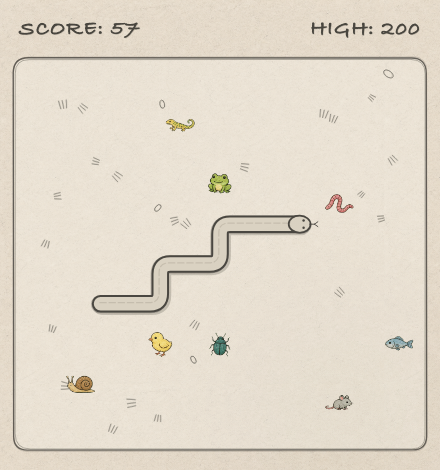
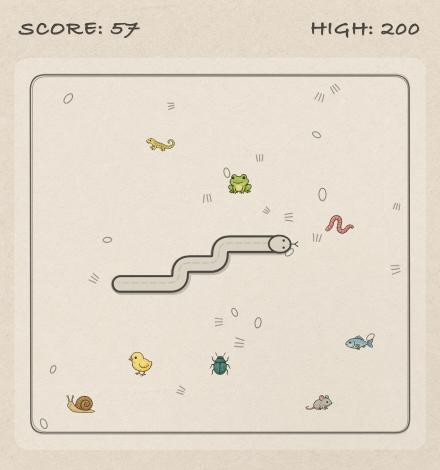
fix: address Suge review findings
- leave Cmd/Ctrl/Alt combinations to the host via eventToDirection, so
  w/a/s/d no longer swallow select-all, save and bookmark shortcuts
- stop preview runs from persisting their scripted high score over the
  stored suge-record
- keep decorations clear of the drawn frame, with the frame inset and the
  decoration margin derived from shared constants
- correct the prey spawn comment: the artwork is deliberately larger than
  one cell, so edge spawns do overlap the frame
- document the Pillow 12.1 floor that build-assets.py requires
- regenerate preview.png with the corrected decoration bounds
- reword the tagline to "Eat, grow, and mind your tail"

diff --git a/games/suge/render.js b/games/suge/render.js
@@ -78,12 +78,20 @@ export function preySpriteRect(kind, atlasWidth, atlasHeight) {
   };
 }
 
+// The main frame stroke sits one cell in from the canvas edge, and a tuft or
+// pebble at full scale reaches about 0.4 cells from its own centre in any
+// rotation. Keeping that much clearance stops decorations from being drawn on
+// top of the border.
+export const FRAME_INSET_CELLS = 1;
+export const DECORATION_MARGIN_CELLS = 0.45;
+
 export function createDecorations(count, rng, cols, rows) {
+  const edge = FRAME_INSET_CELLS + DECORATION_MARGIN_CELLS;
   const decorations = [];
   for (let i = 0; i < count; i += 1) {
     decorations.push({
-      x: 0.9 + clampedRandom(rng) * Math.max(0.1, cols - 1.8),
-      y: 0.9 + clampedRandom(rng) * Math.max(0.1, rows - 1.8),
+      x: edge + clampedRandom(rng) * Math.max(0.1, cols - edge * 2),
+      y: edge + clampedRandom(rng) * Math.max(0.1, rows - edge * 2),
       type: clampedRandom(rng) < 0.58 ? 'grass' : 'pebble',
       rotation: clampedRandom(rng) * Math.PI * 2,
       scale: 0.72 + clampedRandom(rng) * 0.58,
@@ -163,10 +171,11 @@ function drawBoardFill(ctx, width, height, cellSize) {
 }
 
 export function boardFrameInsets(cellSize) {
+  const mainInset = cellSize * FRAME_INSET_CELLS;
   return [
-    cellSize,
-    cellSize + Math.max(0.8, cellSize * 0.07),
-    cellSize - Math.max(0.5, cellSize * 0.035),
+    mainInset,
+    mainInset + Math.max(0.8, cellSize * 0.07),
+    mainInset - Math.max(0.5, cellSize * 0.035),
   ];
 }
 

diff --git a/games/suge/logic.js b/games/suge/logic.js
@@ -52,6 +52,14 @@ export function keyToDirection(key) {
   return KEY_DIRECTIONS[key.toLowerCase()] ?? null;
 }
 
+// Modified combinations belong to the host, not the game: w/a/s/d overlap with
+// Cmd+A, Cmd+S and Cmd+D, so claiming them would swallow those shortcuts
+// whenever the game iframe holds focus.
+export function eventToDirection(event) {
+  if (!event || event.ctrlKey || event.metaKey || event.altKey) return null;
+  return keyToDirection(event.key);
+}
+
 export function tickIntervalForScore(score) {
   const progress = Math.min(1, Math.max(0, score) / TICK_RAMP_SCORE);
   return START_TICK_MS - progress * (START_TICK_MS - MIN_TICK_MS);
@@ -95,9 +103,9 @@ export class SnakeEngine {
     const subjects = [...this.snake, ...this.prey];
 
     const result = [];
-    // Keep collectibles away from the wall so their artwork remains fully
-    // inside the hand-drawn frame and every spawn is reachable without an
-    // immediately fatal move.
+    // Keep collectibles off the wall ring so every spawn is reachable without
+    // an immediately fatal move. Prey artwork is deliberately larger than one
+    // cell, so edge spawns still overlap the frame a little.
     for (let y = 1; y < ROWS - 1; y += 1) {
       for (let x = 1; x < COLS - 1; x += 1) {
         const tooClose = subjects.some((subject) => (

diff --git a/games/suge/suge.js b/games/suge/suge.js
@@ -1,4 +1,4 @@
-import { COLS, ROWS, SnakeEngine, keyToDirection, tickIntervalForScore } from './logic.js';
+import { COLS, ROWS, SnakeEngine, eventToDirection, tickIntervalForScore } from './logic.js';
 import {
   contentBoxSize,
   createDecorations,
@@ -69,6 +69,9 @@ function readPreviewState() {
 }
 
 const previewState = readPreviewState();
+// Preview runs show scripted numbers for screenshots, so they must never write
+// back to the stored record.
+const previewMode = previewState !== null;
 if (previewState) {
   engine.score = previewState.score;
   record = previewState.high;
@@ -119,7 +122,7 @@ function render() {
 function finishRound() {
   loop.stop();
   record = Math.max(engine.score, record);
-  setRecord(record);
+  if (!previewMode) setRecord(record);
   finalScoreEl.textContent = String(engine.score);
   recordEl.textContent = String(record);
   collisionReasonEl.textContent = engine.collision?.type === 'self'
@@ -186,7 +189,7 @@ function handleDirectionInput(direction) {
 }
 
 window.addEventListener('keydown', (event) => {
-  const direction = keyToDirection(event.key);
+  const direction = eventToDirection(event);
   if (!direction) return;
   event.preventDefault();
   if (engine.gameOver) {

diff --git a/games/suge/source-art/README.md b/games/suge/source-art/README.md
@@ -39,8 +39,11 @@ writes the 1024×512 RGBA runtime atlas.
 
 `build-assets.py` downsamples the master to the 768×768 RGB runtime texture.
 
-Run the export from this directory with Python 3 and Pillow installed:
+Run the export from this directory with Python 3 and Pillow 12.1 or newer
+installed — `build-assets.py` uses `Image.get_flattened_data()`, which older
+releases do not provide:
 
 ```sh
+python3 -m pip install 'Pillow>=12.1'
 python3 build-assets.py
 ```
